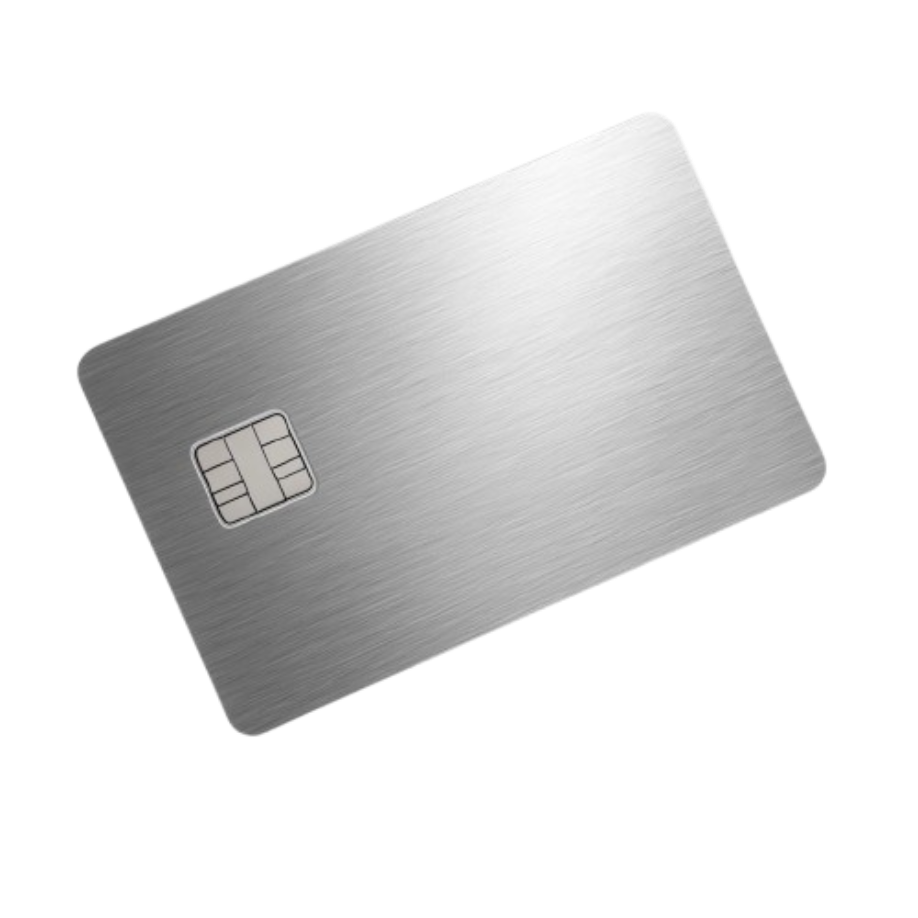
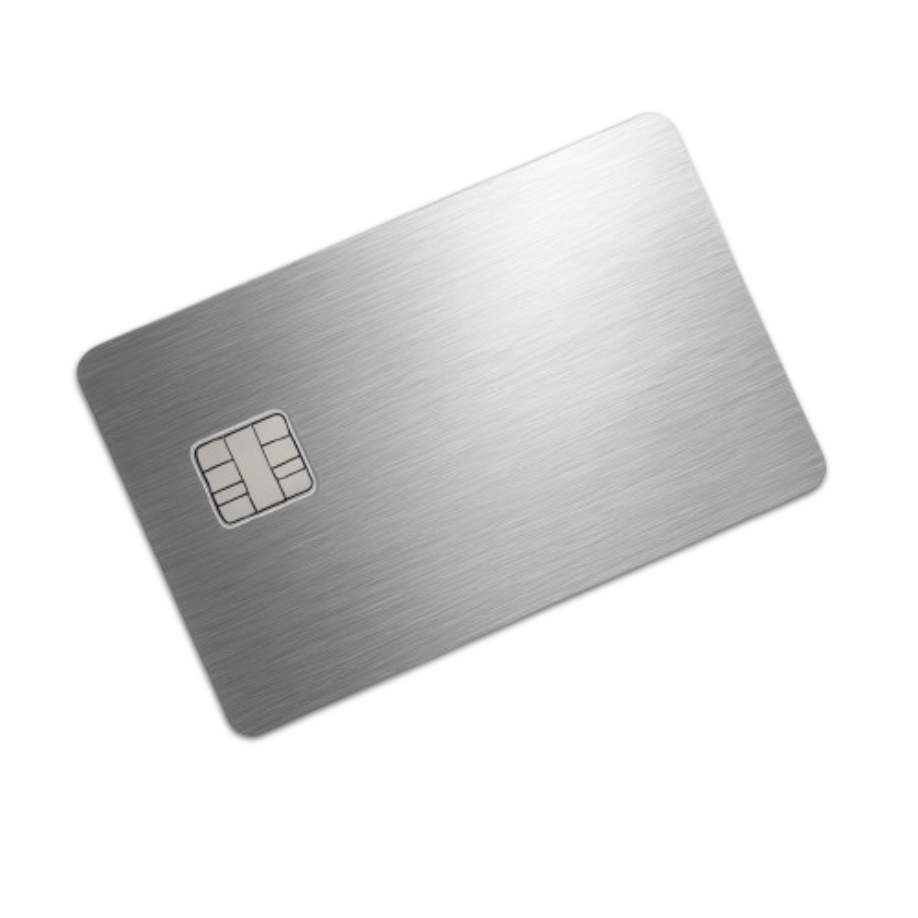
demo: 배너에 카드 이미지 효과 없이 그대로 삽입
drop-shadow·카드면 텍스트 없이 원본 이미지만 우측 배치(ch-card-plain).

diff --git a/web/card-banner-demo.html b/web/card-banner-demo.html
@@ -45,6 +45,9 @@
   .ch-card img{width:100%;height:100%;object-fit:contain;filter:drop-shadow(0 16px 28px rgba(60,40,90,.25))}
   .ch-card .name-en{position:absolute;left:38%;top:33%;transform:rotate(-15deg) skewX(-8deg);transform-origin:left center;color:#5a5a5a;font-size:19px;font-weight:800;letter-spacing:.4px}
   .ch-card .name-ko{position:absolute;left:38%;top:44%;transform:rotate(-15deg) skewX(-8deg);transform-origin:left center;color:#8a8a8a;font-size:12.5px;font-weight:600;letter-spacing:1px}
+  /* 효과 없이 카드 그대로 */
+  .ch-card-plain{flex:0 0 auto;width:340px;height:240px;display:flex;align-items:center;justify-content:center}
+  .ch-card-plain img{max-width:100%;max-height:100%;object-fit:contain}
 </style>
 </head>
 <body>
@@ -61,6 +64,7 @@
         <p class="ch-sub">8개 카드사 · 전월실적별 청구 할인</p>
         <div class="ch-tags"><span># 월 구독료 할인</span><span># 무이자 할부</span><span># 청구 할인</span></div>
       </div>
+      <div class="ch-card-plain"><img src="./assets/brand/card.png" alt="제휴카드"></div>
     </div>
   </div>
 
@@ -73,6 +77,7 @@
         <p class="ch-sub">8개 카드사 · 전월실적별 청구 할인</p>
         <div class="ch-tags"><span># 월 구독료 할인</span><span># 무이자 할부</span><span># 청구 할인</span></div>
       </div>
+      <div class="ch-card-plain"><img src="./assets/brand/card.png" alt="제휴카드"></div>
     </div>
   </div>
 
@@ -85,6 +90,7 @@
         <p class="ch-sub">8개 카드사 · 전월실적별 청구 할인</p>
         <div class="ch-tags"><span># 월 구독료 할인</span><span># 무이자 할부</span><span># 청구 할인</span></div>
       </div>
+      <div class="ch-card-plain"><img src="./assets/brand/card.png" alt="제휴카드"></div>
     </div>
   </div>
 
@@ -97,6 +103,7 @@
         <p class="ch-sub">8개 카드사 · 전월실적별 청구 할인</p>
         <div class="ch-tags"><span># 월 구독료 할인</span><span># 무이자 할부</span><span># 청구 할인</span></div>
       </div>
+      <div class="ch-card-plain"><img src="./assets/brand/card.png" alt="제휴카드"></div>
     </div>
   </div>
 </div>